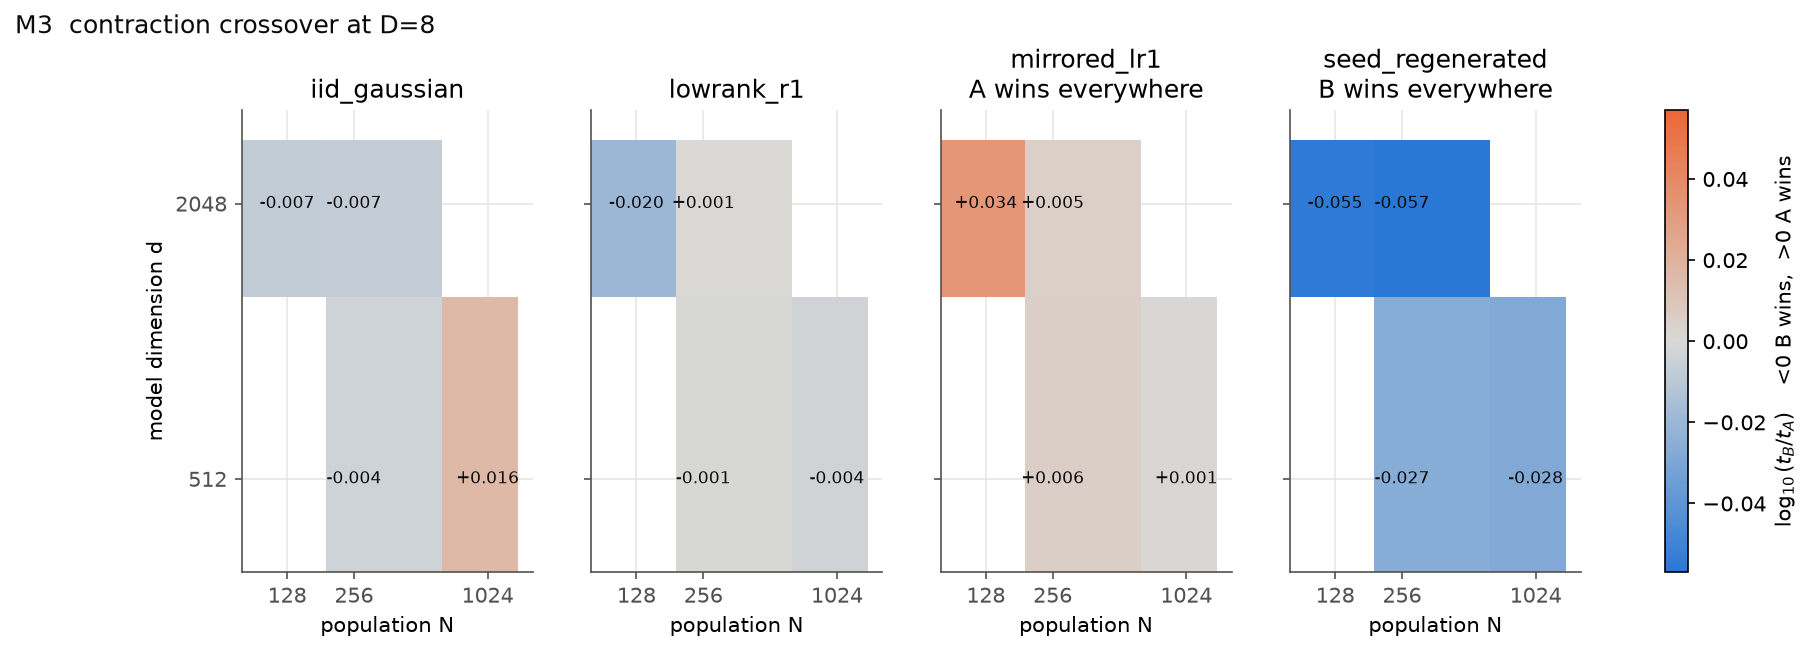
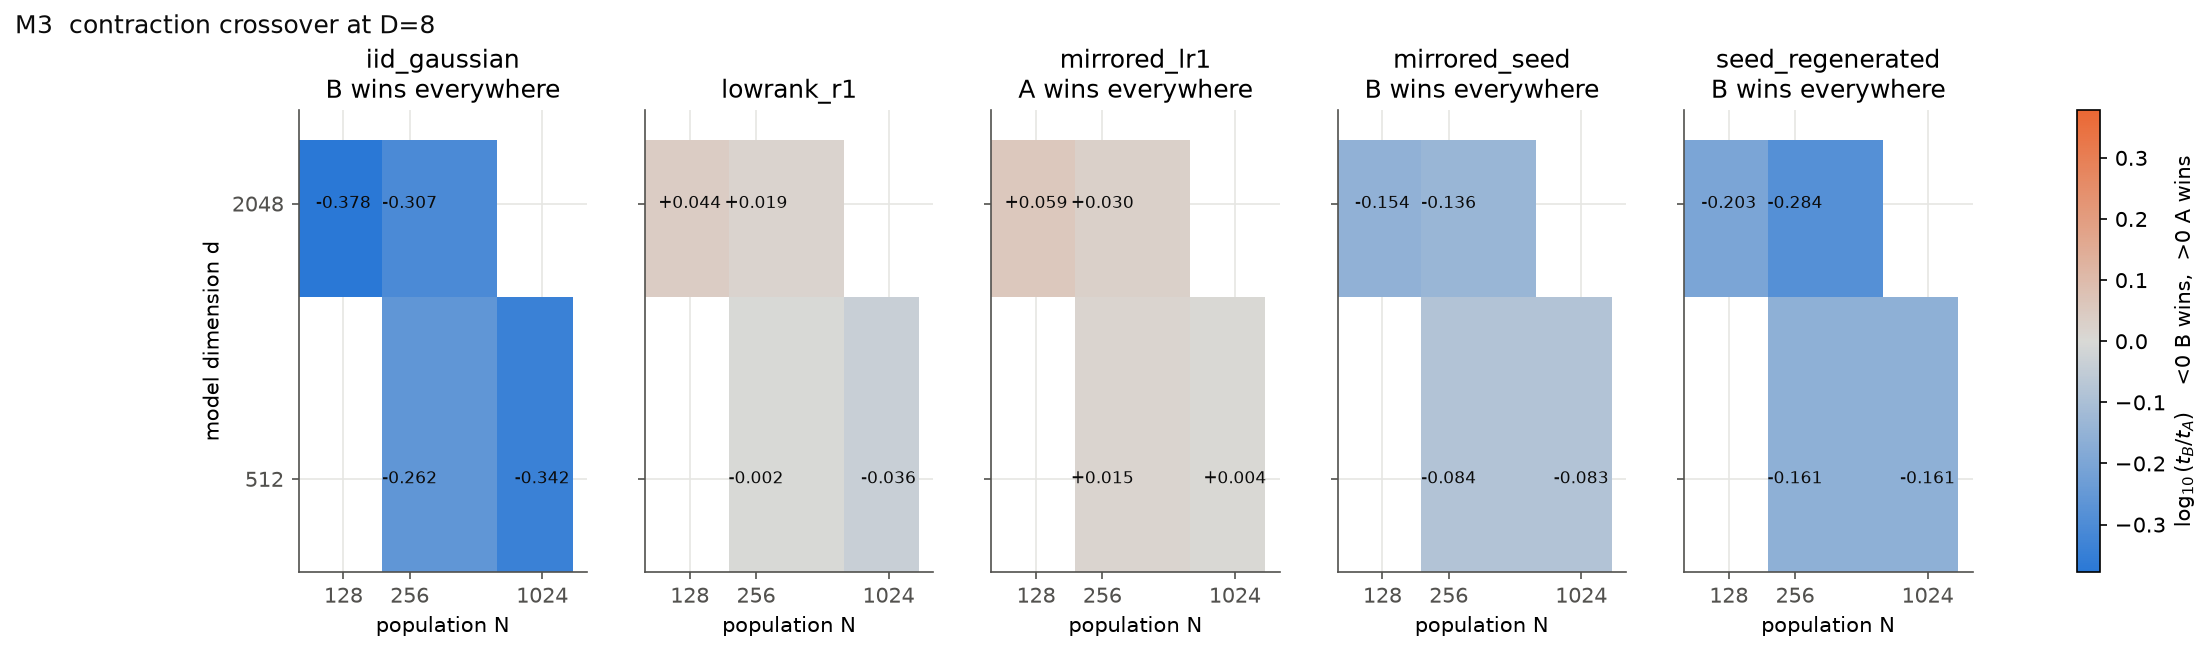
name the current figures figures/, date the superseded ones
Five figures-* directories sat side by side with nothing in the names saying which
to read, and the newest was figures-all. Now figures/ is the current set and the
superseded ones are figures-history/<date>-<name>/, with a README giving each one's
run, commit and reason for being replaced.

Renaming exposed a landmine. plot.py defaulted to --results results --out figures,
which was harmless while figures/ held that same first run, and wrong the moment
figures/ became the current set: a bare plot.py would have redrawn the canonical
figures from the oldest, pre-scan-fix data. The defaults are now the two directories
the current set is actually built from, so no-argument plot.py reproduces figures/.
Verified byte-identical against the committed PNGs, which also answers the matplotlib
version worry docs/03 raises: same recipe, same bytes, matplotlib 3.11.1.

Contents checked by hash against fd48018 on both sides of the move, since git
recorded half of it as delete-plus-add rather than a rename and a swap would have
mislabelled which figures are current.

figures-rehearsal/ stays put: gitignored, regenerated by the rehearsal step, and
named in run.py's OUTPUTS.

756 passed, 1 skipped. The skip is test_git_preserves_the_leading_column_of_porcelain_status,
which only runs when the worktree has unstaged changes and everything was staged.

diff --git a/experiments/phase2/plot.py b/experiments/phase2/plot.py
@@ -1,7 +1,8 @@
 #!/usr/bin/env python
 """M1, M2 and M3 as figures.
 
-    python plot.py --results results-rehearsal --out figures/
+    python plot.py                                          # the current set, into figures/
+    python plot.py --results results-rehearsal --out figures-rehearsal
 
 `docs/03` makes producing the figures part of the dress rehearsal, not of the rented
 session: "the plotting script runs end-to-end on the rehearsal data and produces the final
@@ -349,8 +350,14 @@ def main(argv=None) -> int:
     )
     # `nargs="+"` makes this a list, so the default has to be one too. It was a bare Path
     # for one commit and `plot.py --out ...` raised "PosixPath object is not iterable".
+    #
+    # The defaults are the current published set, so a bare `plot.py` reproduces `figures/`
+    # rather than overwriting it. They used to be `results/` and `figures/`, which was
+    # harmless while `figures/` held the first run and actively wrong once it held the
+    # current one: the no-argument form would have redrawn the canonical figures from the
+    # oldest, pre-scan-fix data.
     ap.add_argument("--results", type=pathlib.Path, nargs="+",
-                    default=[HERE / "results"])
+                    default=[HERE / "results-consistent", HERE / "results-qiu"])
     ap.add_argument("--out", type=pathlib.Path, default=HERE / "figures")
     args = ap.parse_args(argv)
 

diff --git a/docs/03-phase2-benchmarks.md b/docs/03-phase2-benchmarks.md
@@ -140,7 +140,7 @@ random one.
 `--xla_gpu_deterministic_ops=true --xla_gpu_enable_command_buffer=`; the second is not
 optional on a multi-GPU node and `run.py` now refuses without it, see
 `docs/06-benchmark-runbook.md`. Data in `experiments/phase2/results/`, figures in
-`experiments/phase2/figures/`, guard output from `check.py`.
+`experiments/phase2/figures-history/2026-08-06-prefix/`, guard output from `check.py`.
 
 The figures were drawn by `plot.py` under **matplotlib 3.11.1**. Nothing records that
 automatically: `env.json` and the per-result `env` block cover the numbers, not the
@@ -310,7 +310,7 @@ evaluation was replicated on every device. What changed is the program.
 differs from `sweep.yaml` by one line, `results_dir`. 0 failed, 0 over cap, 3h57m of measured
 wall on 8x A100-SXM4-80GB (driver 595.71.05, CUDA 13.2, jax 0.11.0, community cloud).
 `XLA_FLAGS` and every other knob are unchanged. Data in `experiments/phase2/results-postfix/`,
-figures in `experiments/phase2/figures-postfix/`, commit `a496345`, all 256 records stamped
+figures in `experiments/phase2/figures-history/2026-08-11-postfix/`, commit `a496345`, all 256 records stamped
 `dirty_worktree: false`.
 
 Billed $52.43 against 4h43m of pod uptime. The gap between 3h57m of measurement and 4h43m of
@@ -634,7 +634,7 @@ by one line, `results_dir`. One 8x A100-SXM4-80GB node (driver 595.71.05, CUDA 1
 
 M4 and `profile.py` ran in the same session on the same node, so the comparison arms and the
 per-part breakdown are the same program as the sweep. `experiments/phase2/results-consistent/`,
-`results-m4-consistent/`, `figures-consistent/`, `profile-consistent.txt`.
+`results-m4-consistent/`, `figures-history/2026-08-14-consistent/`, `profile-consistent.txt`.
 
 ### M1, strong scaling
 
@@ -862,10 +862,16 @@ compares the arms to each other.
 is the expected result and worth stating: pairing halves the distinct *directions*, not the
 storage, which was already `O(|params|)` because the noise is regenerated rather than kept.
 
-**The figures cover all five strategies.** `experiments/phase2/figures-all/` is plotted from
-the union of `results-consistent` and `results-qiu`, 320 results:
+**The figures cover all five strategies.** `experiments/phase2/figures/` is plotted from
+the union of `results-consistent` and `results-qiu`, 320 results, and those two directories
+are `plot.py`'s defaults, so this is the no-argument invocation:
 
-    python plot.py --results results-consistent results-qiu --out figures-all
+    python plot.py
+
+Superseded sets moved to `experiments/phase2/figures-history/`, one dated directory per run,
+with a README saying what each was and why it was replaced. They used to sit beside the
+current one as `figures-postfix/`, `figures-consistent/` and so on, where nothing in the
+names said which to read.
 
 `plot.py` takes several directories rather than requiring a combined one, so there is no third
 copy of every result on disk to go stale. Combining them is legitimate

diff --git a/experiments/phase2/figures-history/README.md b/experiments/phase2/figures-history/README.md
@@ -1,0 +1,23 @@
+# Superseded phase 2 figures
+
+`../figures/` is the current set. Everything here is what an earlier section of
+`docs/03-phase2-benchmarks.md` reported at the time, kept because those sections
+still cite it and a superseded number with no picture behind it is hard to check.
+
+Nothing here is regenerated. If a figure here disagrees with `../figures/`, the
+one here is the older answer, not a bug to reconcile.
+
+| directory | run | commit | why it was superseded |
+|---|---|---|---|
+| `2026-08-06-prefix/` | first 8x A100 sweep, 256 configs | `a496345` and earlier | measured before the `seed_regenerated` scan fix, so its efficiency numbers describe a program that no longer ships. Its M1 also has the keying bug that plotted one facet's worth of data. |
+| `2026-08-11-postfix/` | re-run after the scan fix, 256 configs | `a496345` | correct, but mixed three commits across the session, and M6 peak memory was wrong by a constant parameter-sized term. |
+| `2026-08-14-consistent/` | single-commit re-run, 256 configs | `5769751` | still current for what it covers. Superseded only in scope: four strategies, no `mirrored_seed`. |
+
+The current `../figures/` is the union of `results-consistent` and `results-qiu`,
+320 results, five strategies. See `docs/03-phase2-benchmarks.md` for why combining
+those two runs is legitimate when this document spends three sections warning
+against stitching runs together.
+
+`../figures-rehearsal/` is not here and is not committed. It is CPU dress-rehearsal
+output, watermarked as not-a-scaling-measurement, regenerated whenever the rehearsal
+step runs.
